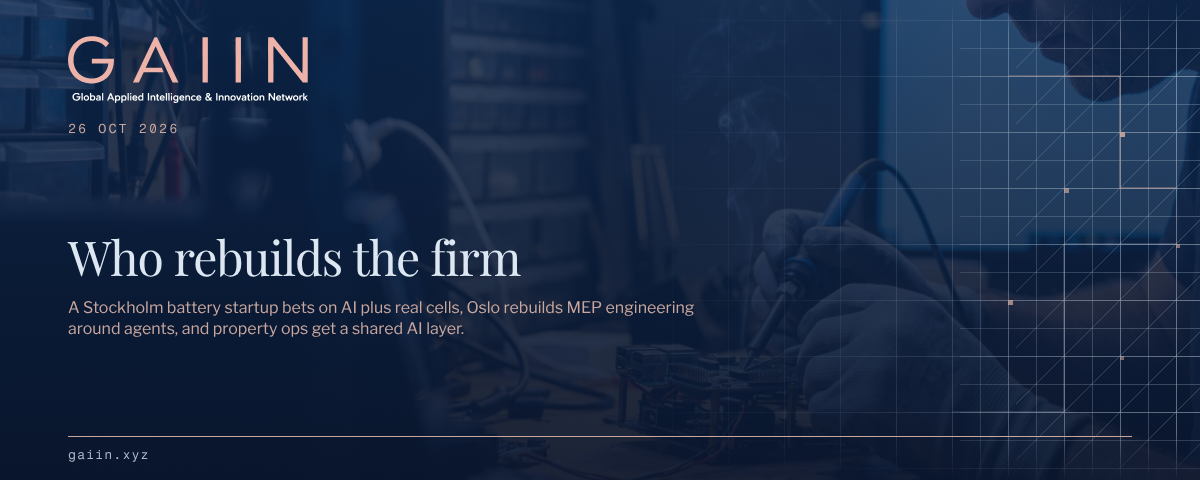
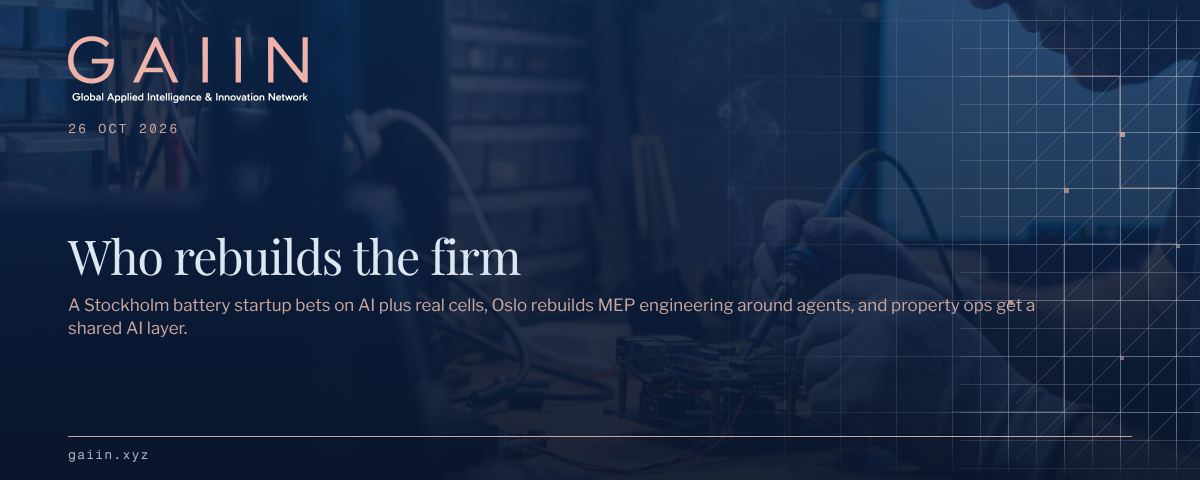
Swap in the Brand Ops 26 Oct plate and hero.
Use the new workbench plate under the canonical navy wash, centered, and replace the in-page and archive hero image.

diff --git a/signal/2026-10-26.html b/signal/2026-10-26.html
@@ -188,7 +188,7 @@
   </nav>
 </header>
 
-<main class="hero" id="top" style="background-image:linear-gradient(rgba(13,41,81,.82),rgba(10,23,48,.93)),url('/signal/assets/signal-masthead-2026-10-26-plate.jpg');background-size:cover;background-position:70% 45%;">
+<main class="hero" id="top" style="background-image:linear-gradient(rgba(13,41,81,.82),rgba(10,23,48,.93)),url('/signal/assets/signal-masthead-2026-10-26-plate.jpg');background-size:cover;background-position:center center;">
   <svg class="bg-lines" viewBox="0 0 1920 900" preserveAspectRatio="xMidYMid slice" fill="none" aria-hidden="true">
     <defs><linearGradient id="heroGrad" x1="0" y1="900" x2="1920" y2="0" gradientUnits="userSpaceOnUse"><stop stop-color="#dce7f2" stop-opacity="0"/><stop offset="0.5" stop-color="#dce7f2"/><stop offset="1" stop-color="#dce7f2" stop-opacity="0"/></linearGradient></defs>
     <path d="M-40 880H520C531 880 540 871 540 860V600C540 589 549 580 560 580H900C911 580 920 571 920 560V320C920 309 929 300 940 300H1480C1491 300 1500 291 1500 280V80C1500 69 1509 60 1520 60H1980" stroke="url(#heroGrad)" stroke-opacity="0.28" stroke-width="1"/>

diff --git a/signal/index.html b/signal/index.html
@@ -184,7 +184,7 @@
   </nav>
 </header>
 
-<main class="hero" id="top" style="background-image:linear-gradient(rgba(13,41,81,.82),rgba(10,23,48,.93)),url('/signal/assets/signal-masthead-2026-10-26-plate.jpg');background-size:cover;background-position:70% 45%;">
+<main class="hero" id="top" style="background-image:linear-gradient(rgba(13,41,81,.82),rgba(10,23,48,.93)),url('/signal/assets/signal-masthead-2026-10-26-plate.jpg');background-size:cover;background-position:center center;">
   <svg class="bg-lines" viewBox="0 0 1920 900" preserveAspectRatio="xMidYMid slice" fill="none" aria-hidden="true">
     <defs><linearGradient id="heroGrad" x1="0" y1="900" x2="1920" y2="0" gradientUnits="userSpaceOnUse"><stop stop-color="#dce7f2" stop-opacity="0"/><stop offset="0.5" stop-color="#dce7f2"/><stop offset="1" stop-color="#dce7f2" stop-opacity="0"/></linearGradient></defs>
     <path d="M-40 880H520C531 880 540 871 540 860V600C540 589 549 580 560 580H900C911 580 920 571 920 560V320C920 309 929 300 940 300H1480C1491 300 1500 291 1500 280V80C1500 69 1509 60 1520 60H1980" stroke="url(#heroGrad)" stroke-opacity="0.28" stroke-width="1"/>
